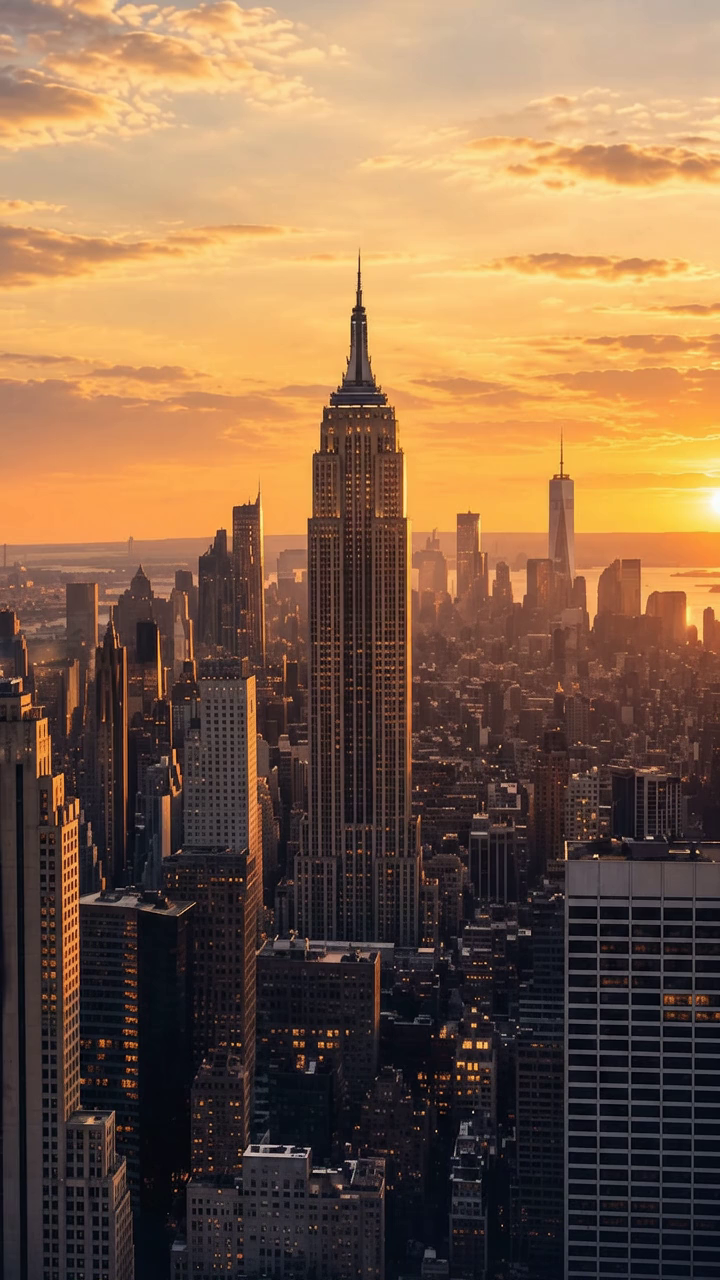
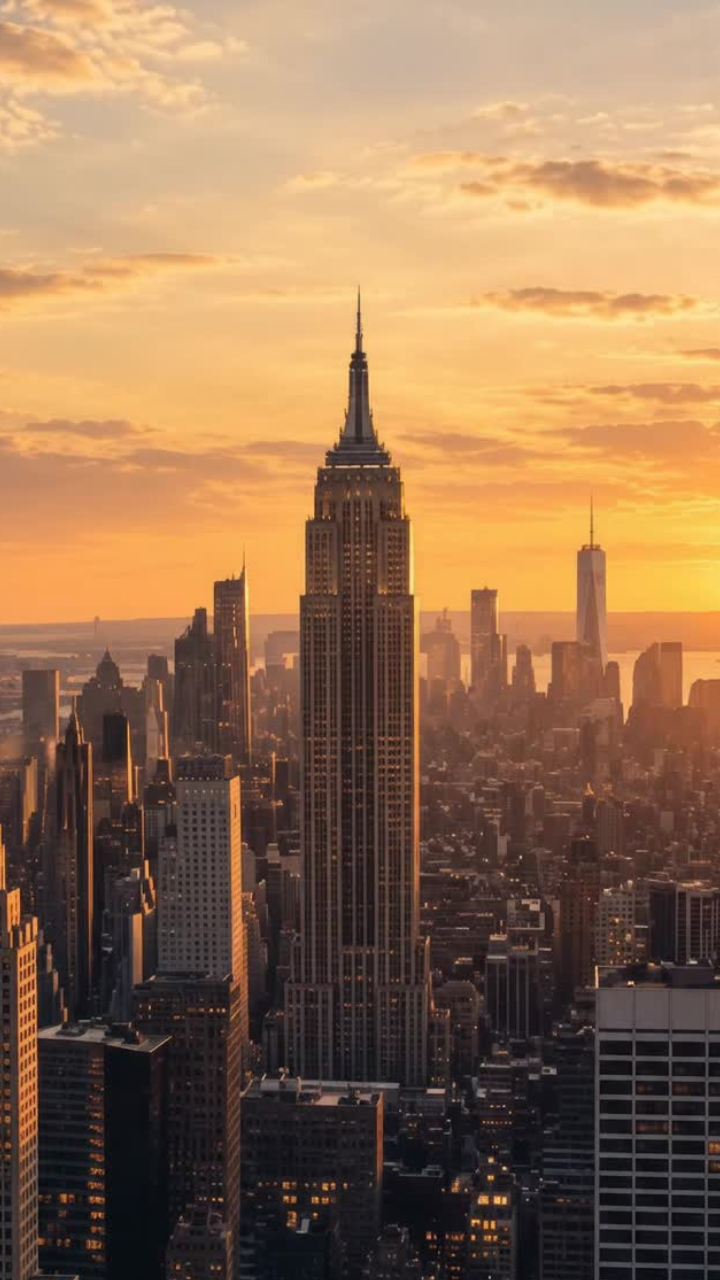
Replace mobile hero media without top offset

diff --git a/index.html b/index.html
@@ -18,7 +18,7 @@
 <!-- DESIGN.md v6 §2/§3 design-system layer. Homepage only; loaded after
      styles.css so the new components win where names would ever collide. -->
 <link rel="stylesheet" href="design-system.css?v=practice-five-1" />
-<link rel="stylesheet" href="homepage-atlas.css?v=mobile-client-refinement-4" />
+<link rel="stylesheet" href="homepage-atlas.css?v=mobile-client-refinement-5" />
 <script>document.documentElement.className += ' ds-js';</script>
 <!-- ===== SEO / GEO: generated by seo_build.py — edit there, not here ===== -->
 <meta property="og:type" content="website" />
@@ -426,7 +426,7 @@ FINISH: unreviewed and undocumented is unfinished; this build ends with the fini
       </div>
       <div class="hero-bg" aria-hidden="true"></div>
       <div class="hero-video" aria-hidden="true">
-        <iframe class="hero-video__frame" title="" aria-hidden="true" tabindex="-1" allow="autoplay; fullscreen; picture-in-picture" data-mobile-src="https://player.vimeo.com/video/1224734718?background=1&amp;autoplay=1&amp;loop=1&amp;muted=1&amp;autopause=0&amp;controls=0&amp;playsinline=1&amp;dnt=1" data-desktop-src="https://player.vimeo.com/video/1224409606?background=1&amp;autoplay=1&amp;loop=1&amp;muted=1&amp;autopause=0&amp;controls=0&amp;playsinline=1&amp;dnt=1"></iframe>
+        <iframe class="hero-video__frame" title="" aria-hidden="true" tabindex="-1" allow="autoplay; fullscreen; picture-in-picture" data-mobile-src="https://player.vimeo.com/video/1224752755?background=1&amp;autoplay=1&amp;loop=1&amp;muted=1&amp;autopause=0&amp;controls=0&amp;playsinline=1&amp;dnt=1" data-desktop-src="https://player.vimeo.com/video/1224409606?background=1&amp;autoplay=1&amp;loop=1&amp;muted=1&amp;autopause=0&amp;controls=0&amp;playsinline=1&amp;dnt=1"></iframe>
       </div>
       <div class="hero-scrim" aria-hidden="true"></div>
       <div class="hero-copy">

diff --git a/homepage-atlas.css b/homepage-atlas.css
@@ -12649,14 +12649,14 @@
 
   .atlas-home .hero-video__frame {
     height: calc(100% + 44px);
-    transform: translate(-50%, calc(-50% + 1rem));
+    transform: translate(-50%, -50%);
   }
 
   .atlas-home .hero-bg {
     top: 0;
     height: 100%;
     background-image: url("assets/nyc-hero-sm.jpg");
-    background-position: center calc(50% + 1rem);
+    background-position: center;
     filter: saturate(1.04) contrast(1.02) brightness(1);
   }
 
@@ -12819,7 +12819,7 @@
    video loads, if it fails, and whenever reduced motion disables playback. */
 .atlas-home .hero-bg {
   background-image: url("assets/hero-mobile-empire-fallback.png");
-  background-position: center calc(50% + 1rem);
+  background-position: center;
   background-size: cover;
 }
 

diff --git a/tests/test_homepage_mobile_video_hero.py b/tests/test_homepage_mobile_video_hero.py
@@ -1,4 +1,5 @@
 from pathlib import Path
+import hashlib
 import re
 import unittest
 
@@ -19,7 +20,7 @@ class HomepageMobileVideoHeroTests(unittest.TestCase):
 
     def test_mobile_vimeo_background_is_progressively_loaded(self):
         self.assertIn(
-            'data-mobile-src="https://player.vimeo.com/video/1224734718?background=1&amp;autoplay=1&amp;loop=1&amp;muted=1&amp;autopause=0&amp;controls=0&amp;playsinline=1&amp;dnt=1"',
+            'data-mobile-src="https://player.vimeo.com/video/1224752755?background=1&amp;autoplay=1&amp;loop=1&amp;muted=1&amp;autopause=0&amp;controls=0&amp;playsinline=1&amp;dnt=1"',
             HTML,
         )
         self.assertIn(
@@ -155,14 +156,16 @@ class HomepageMobileVideoHeroTests(unittest.TestCase):
             r'@media\s*\(max-width:\s*640px\)[\s\S]*?'
             r'\.atlas-home \.hero-video__frame\s*\{[^}]*'
             r'height:\s*calc\(100% \+ 44px\)[^}]*'
-            r'transform:\s*translate\(-50%,\s*calc\(-50% \+ 1rem\)\)',
+            r'transform:\s*translate\(-50%,\s*-50%\)',
         )
         self.assertRegex(
             final_mobile_guard,
             r'@media\s*\(max-width:\s*640px\)[\s\S]*?'
             r'\.atlas-home \.hero-bg\s*\{[^}]*'
-            r'background-position:\s*center calc\(50% \+ 1rem\)',
+            r'background-position:\s*center',
         )
+        self.assertNotIn("calc(-50% + 1rem)", final_mobile_guard)
+        self.assertNotIn("center calc(50% + 1rem)", final_mobile_guard)
         self.assertRegex(
             final_mobile_guard,
             r'@media\s*\(max-width:\s*640px\)[\s\S]*?'
@@ -250,7 +253,12 @@ class HomepageMobileVideoHeroTests(unittest.TestCase):
         self.assertRegex(reduced.group(1), r'\.atlas-home \.hero-video\s*\{[^}]*display:\s*none')
 
     def test_client_fallback_posters_are_used_at_the_matching_breakpoints(self):
-        self.assertTrue((ROOT / "assets" / "hero-mobile-empire-fallback.png").is_file())
+        mobile_fallback = ROOT / "assets" / "hero-mobile-empire-fallback.png"
+        self.assertTrue(mobile_fallback.is_file())
+        self.assertEqual(
[1 lines of base64/hex data omitted]
+            hashlib.sha256(mobile_fallback.read_bytes()).hexdigest(),
+        )
         self.assertTrue((ROOT / "assets" / "hero-video-fallback-desktop.png").is_file())
         self.assertIn(
             '<link rel="preload" as="image" href="assets/hero-mobile-empire-fallback.png" media="(max-width: 640px)" />',
@@ -270,7 +278,9 @@ class HomepageMobileVideoHeroTests(unittest.TestCase):
         posters = CSS.split(marker, 1)[1]
         self.assertRegex(
             posters,
-            r'\.atlas-home \.hero-bg\s*\{[^}]*background-image:\s*url\("assets/hero-mobile-empire-fallback\.png"\)',
+            r'\.atlas-home \.hero-bg\s*\{[^}]*'
+            r'background-image:\s*url\("assets/hero-mobile-empire-fallback\.png"\)[^}]*'
+            r'background-position:\s*center',
         )
         self.assertRegex(
             posters,
@@ -280,7 +290,7 @@ class HomepageMobileVideoHeroTests(unittest.TestCase):
 
     def test_homepage_requests_the_mobile_video_hero_assets(self):
         self.assertIn(
-            'homepage-atlas.css?v=mobile-client-refinement-4',
+            'homepage-atlas.css?v=mobile-client-refinement-5',
             HTML,
         )
         self.assertIn(

diff --git a/tests/test_homepage_header_logo_call_now.py b/tests/test_homepage_header_logo_call_now.py
@@ -43,7 +43,7 @@ class HomepageHeaderLogoCallNowTests(unittest.TestCase):
     def test_desktop_logo_is_128px_and_stylesheet_cache_is_busted(self):
         self.assertIn("height: 128px", self.refinement)
         self.assertIn(
-            'homepage-atlas.css?v=mobile-client-refinement-4',
+            'homepage-atlas.css?v=mobile-client-refinement-5',
             HTML,
         )
 

diff --git a/docs/superpowers/specs/2026-09-08-mobile-hero-client-refinement-design.md b/docs/superpowers/specs/2026-09-08-mobile-hero-client-refinement-design.md
@@ -9,19 +9,19 @@ Refine the homepage hero on mobile so the client logo, “INJURED?” line, movi
 - Reduce the mobile logo artwork by approximately 8–10 percent at both regular and short phone heights.
 - Preserve the supplied transparent assets/gb-logo-empire-glow.png artwork and its baked gold/blue glow exactly. Do not recreate, amplify, or recolor that glow in CSS. Match the client sample with one soft warm-white radial bloom behind the complete logo, using screen blending so it brightens the sky instead of laying a gray band over it. The image has no added drop shadow.
 - Reduce only .hero-proof__injured; keep “Over,” “$100 Million+,” the recovery label, body statement, phone action, and scroll cue unchanged unless collision prevention requires positioning.
-- Move the mobile Vimeo frame and the matching fallback poster downward by the same optical amount so loading, reduced-motion, and playback states share one crop.
+- Use the replacement mobile Vimeo video (1224752755) and the supplied 720 × 1280 fallback poster. Keep both centered with no downward offset so they cover the hero from its top edge in loading, reduced-motion, and playback states.
 - Move only the mobile menu stack upward. Keep its 64px touch target and focus behavior unchanged.
 - Apply the refinement only at max-width: 640px; desktop remains governed by the existing desktop rules.
 
 ## Responsive targets
 
-- Regular mobile (375 × 812): the logo remains dominant but clearly separated from “INJURED?”; the menu sits closer to the safe top edge; the building/sky crop reads lower.
+- Regular mobile (375 × 812): the logo remains dominant but clearly separated from “INJURED?”; the menu sits closer to the safe top edge; the replacement building/sky crop covers the hero from its top edge.
 - Short mobile (375 × 667): the reduced logo and heading preserve a positive visual gap, and the call action and scroll cue remain reachable without horizontal overflow.
 - Desktop (1440 × 900): logo, background, copy, menu/header, and spacing remain unchanged.
 
 ## Verification
 
-- Add CSS contract assertions for the smaller mobile logo, smaller mobile “INJURED?” size, downward video/poster crop, upward menu position, preserved glow artwork, and new cache revision.
+- Add contract assertions for the smaller mobile logo, smaller mobile “INJURED?” size, zero-offset video/poster coverage, exact replacement fallback, updated Vimeo source, upward menu position, preserved glow artwork, and new cache revision.
 - Prove the new assertions fail before editing production CSS, then pass after the minimal implementation.
 - Run the complete Python suite, homepage contract, hero-video runtime, CSS quality detector, and git diff check.
 - Perform computed-geometry checks and paired screenshots at 375 × 667, 375 × 812, and 1440 × 900.
